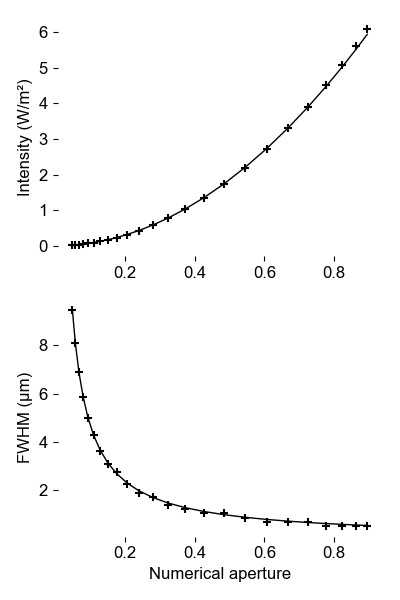
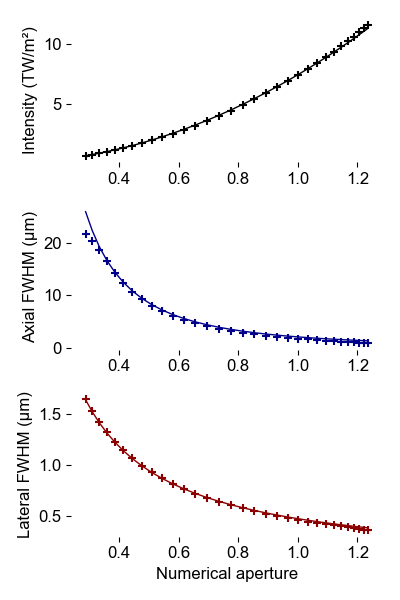
Agreement with axial theory is evaluated

diff --git a/examples/quantitative-intensity.py b/examples/quantitative-intensity.py
@@ -17,27 +17,42 @@ import sys
 import time
 
 try:
-    from foci import util
     from foci import debye_wolf
-    from foci import UM, NM, MM
+    from foci import UM, NM, MM, M
 except ModuleNotFoundError:  # If not installed, assume user is running from \examples
     sys.path.append(os.path.abspath(os.path.join(os.path.dirname(__file__), "..")))
-    from foci import util
     from foci import debye_wolf
-    from foci import UM, NM, MM
+    from foci import UM, NM, MM, M
     
+
+# def get_fwhm(x):
+#     x = np.abs(x)
+#     if x[0] != np.max(x):
+#         raise ValueError('x must be the right-hand side of a PSF beginning at its maximum!')
+#     normalized = (x - np.min(x)) / (np.max(x) - np.min(x))
+#     i = np.argmin(np.abs(normalized - 0.5))
+#     return 2 * i
+
 
 def get_fwhm(x):
     x = np.abs(x)
     if x[0] != np.max(x):
         raise ValueError('x must be the right-hand side of a PSF beginning at its maximum!')
-    normalized = (x - np.min(x)) / (np.max(x) - np.min(x))
-    i = np.argmin(np.abs(normalized - 0.5))
-    return 2 * i
+    n = (x - x.min()) / (x.max() - x.min())
+    idx = np.flatnonzero(n < 0.5)
+    if len(idx) == 0:
+        return np.nan
+    i = idx[0]
+    f = (0.5 - n[i-1]) / (n[i] - n[i-1]) if n[i] != n[i-1] else 0
+    return 2 * (i - 1 + f)
 
 
-def theoretical_fwhm(NA, wavelength):
+def theoretical_lateral_fwhm(NA, wavelength):
     return (0.515 * wavelength) / NA
+
+
+def theoretical_axial_fwhm(NA, wavelength):
+    return (2.34 * wavelength) / NA**2
     
     
 def theoretical_peak(NA, wavelength):
@@ -51,11 +66,16 @@ PUPIL_DIAMETER = 8 * MM
 WAVELENGTH = 920 * NM
 
 # Field parameters
-FIELD_WIDTH = 22 * UM
-FIELD_INDEX = 1.0  # Water
+FIELD_WIDTH = 8 * UM
+FIELD_DEPTH = 36 * UM
+FIELD_INDEX = 1.33  # Water
 
 # Simulation resolution
-N = 256
+N = 128
+Z = 128
+
+dx = FIELD_WIDTH / N
+dz = FIELD_DEPTH / Z
 
 # %% Create linearly polarized pupil
 
@@ -64,18 +84,25 @@ pupil.normalize_power()
 
 # %% Propagate for various objectives
 
-objective_focal_lengths = np.logspace(np.log10(2 * MM), np.log10(80 * MM), num=24)
+objective_focal_lengths = np.logspace(np.log10(1.6 * MM), np.log10(18 * MM), num=32)
+
 nas = []
+
 intensity_distributions = []
-theoretical_peaks = []
+
 simulated_peaks = []
-simulation_power = []
-simulated_fwhms = []
-theoretical_fwhms = []
+theoretical_peaks = []
+
+simulated_lateral_fwhms = []
+simulated_axial_fwhms = []
+theoretical_lateral_fwhms = []
+theoretical_axial_fwhms = []
+
+simulated_powers = []
 
 for obj_f in objective_focal_lengths:
     print('Preparing forward model of objective with focal length {:.2f} mm...'.format(obj_f / MM))
-    obj = debye_wolf.Objective(WAVELENGTH, FIELD_INDEX, obj_f, PUPIL_DIAMETER, N, FIELD_WIDTH)
+    obj = debye_wolf.Objective(WAVELENGTH, FIELD_INDEX, obj_f, PUPIL_DIAMETER, N, FIELD_WIDTH, z=Z, field_depth=FIELD_DEPTH)
     print('...simulated objective with NA={:.3f}'.format(obj._na))
     nas.append(obj._na)
     theoretical_peaks.append(theoretical_peak(obj._na, WAVELENGTH))
@@ -83,13 +110,15 @@ for obj_f in objective_focal_lengths:
     field = obj.focus(pupil)
     elapsed = time.time() - start
     print('Propagated to focus, {:.3f} s elapsed.'.format(elapsed))
+    # field.save_vectorial('vectorial_gaussian_NA' + str(obj._na)[0:5])
     I = field.intensity()
-    simulated_fwhms.append(get_fwhm(I[N // 2:, N // 2]) * (FIELD_WIDTH / N))
-    theoretical_fwhms.append(theoretical_fwhm(obj._na, WAVELENGTH))
-    intensity_distributions.append(I)
-    
+    simulated_lateral_fwhms.append(get_fwhm(I[N // 2:, N // 2, Z // 2]) * dx)
+    simulated_axial_fwhms.append(get_fwhm(I[N // 2, N // 2, Z // 2:]) * dz)
+    theoretical_lateral_fwhms.append(theoretical_lateral_fwhm(obj._na, WAVELENGTH))
+    theoretical_axial_fwhms.append(theoretical_axial_fwhm(obj._na, WAVELENGTH))
     simulated_peaks.append(I.max())
-    simulation_power.append(np.sum(I) * (PUPIL_DIAMETER / N)**2)
+    intensity_distributions.append(I)
+    simulated_powers.append(field.power())
 
 # %% Display
 
@@ -99,19 +128,21 @@ plt.close('all')
 
 plt.figure('Theory vs. simulation', figsize=(4, 6))
 
-plt.subplot(2, 1, 1)
-plt.plot(nas, theoretical_peaks, '-k', linewidth=1)
-plt.scatter(nas, simulated_peaks, color='black', marker='+')
-plt.ylabel('Intensity (W/m²)')
+plt.subplot(3, 1, 1)
+plt.plot(nas, np.array(theoretical_peaks) / 1e12, '-k', linewidth=1)
+plt.scatter(nas, np.array(simulated_peaks) / 1e12, color='black', marker='+')
+plt.ylabel('Intensity (TW/m²)')
 ax = plt.gca()
 ax.spines['top'].set_visible(False)
 ax.spines['right'].set_visible(False)
 ax.spines['left'].set_visible(False)
 ax.spines['bottom'].set_visible(False)
 
-plt.subplot(2, 1, 2)
-plt.plot(nas, theoretical_fwhms, '-k', linewidth=1)
-plt.scatter(nas, simulated_fwhms, color='black', marker='+')
+plt.subplot(3, 1, 2)
+plt.plot(nas, np.array(theoretical_axial_fwhms) / UM, color='darkblue', linewidth=1)
+plt.scatter(nas, np.array(simulated_axial_fwhms) / UM, color='darkblue', marker='+', label='Axial')
+plt.plot(nas, np.array(theoretical_lateral_fwhms) / UM, color='darkred', linewidth=1)
+plt.scatter(nas, np.array(simulated_lateral_fwhms) / UM, color='darkred', marker='+', label='Lateral')
 plt.ylabel('FWHM (μm)')
 plt.xlabel('Numerical aperture')
 ax = plt.gca()
@@ -122,3 +153,14 @@ ax.spines['bottom'].set_visible(False)
 
 plt.tight_layout()
 plt.savefig('quantitative-intensity-test')
+
+plt.figure('Integrated power vs NA')
+plt.plot(nas, np.ones(len(nas)), '-k', linewidth=1)
+plt.scatter(nas, simulated_powers, color='black', marker='+')
+plt.ylabel('Power (W)')
+plt.xlabel('Numerical aperture')
+ax = plt.gca()
+ax.spines['top'].set_visible(False)
+ax.spines['right'].set_visible(False)
+ax.spines['left'].set_visible(False)
+ax.spines['bottom'].set_visible(False)

diff --git a/foci/debye_wolf.py b/foci/debye_wolf.py
@@ -26,6 +26,7 @@ import tempfile
 import uuid
 import copy
 from foci import cztw
+from foci.util import *
 import numpy as np
 from numpy import pi as PI
 from multiprocessing import shared_memory as sm
@@ -35,11 +36,6 @@ import prysm.polynomials
 
 
 mp = mp.get_context('spawn')
-
-
-MM = 1000.0
-UM = 1.0
-NM = 1.0 / 1000.0
 
 
 type_bytes = {
@@ -59,7 +55,7 @@ class VectorialPupil(object):
             raise ValueError('The pupil must be square!')
         self._shape = (pupil_x.shape[0], pupil_x.shape[0], 2)
         if diameter is None:
-            self._clear_aperture = float(pupil_x.shape[0])
+            self._clear_aperture = float(pupil_x.shape[0]) * MM  # Assume millimeters if no unit is provided
         else:
             self._clear_aperture = diameter
         self._r = np.linspace(-self._clear_aperture / 2, self._clear_aperture / 2, self._shape[0])
@@ -152,12 +148,14 @@ class VectorialPupil(object):
         P_Y = np.sum(np.abs(self.y)**2)
         return (P_X + P_Y) * self._dr**2
     
+    def intensity(self) -> float:
+        return np.abs(self.x)**2 + np.abs(self.y)**2
+    
     def normalize_power(self, P_norm=1.0):
         P = self.power()
         s = np.sqrt(P_norm / P)
         self._pupil[:, :, 0] *= s
         self._pupil[:, :, 1] *= s
-        print('Power normalized to', self.power())
     
     def display(self, mask_threshold: float=1E-9, display_phase=True, display_polarization=True, polarization_downsample: int=None, cmap_amp='Reds', cmap_phase='Blues', display_colorbar=False):
         
@@ -226,6 +224,11 @@ class VectorialFocalField(object):
         self._wavelength = wavelength
         self._r = np.linspace(-field_diameter / 2, field_diameter / 2, shape[0])
         self._z = np.linspace(-field_depth / 2, field_depth / 2, shape[-1])
+        self._dr = np.abs(self._r[1] - self._r[0])
+        if len(self._z) > 1:
+            self._dz = np.abs(self._z[1] - self._z[0])
+        else: 
+            self._dz = 1
         self._filename = None  # for memmaped fields
         now_str = datetime.now().strftime("%Y%m%d%H%M%S")
         param_str = str(int(wavelength / NM)) + '_' + '_'.join(str(i) for i in shape) + '_' + precision
@@ -263,6 +266,12 @@ z
 
         """
         return np.abs(self._E[:, :, :, 0])**2 + np.abs(self._E[:, :, :, 1])**2 + np.abs(self._E[:, :, :, 2])**2
+    
+    def power(self) -> float:
+        P_X = np.sum(np.abs(self.E_X())**2)
+        P_Y = np.sum(np.abs(self.E_Y())**2)
+        P_Z = np.sum(np.abs(self.E_Z())**2)
+        return (P_X + P_Y + P_Z) * self._dr**2 * self._dz
     
     def E_X(self) -> np.ndarray:
         return self._E[:, :, :, 0]

diff --git a/foci/util.py b/foci/util.py
@@ -11,9 +11,11 @@ import numpy as np
 import pyfftw as fftw
 
 
-MM = 1000.0
-UM = 1.0
-NM = 1.0 / 1000.0
+# Global package units
+M = 1.
+MM = M / 1000.
+UM = MM / 1000.
+NM = UM / 1000.
 
 
 try:

diff --git a/foci/rs.py b/foci/rs.py
@@ -19,10 +19,6 @@ from foci.util import *
 
 PI = np.pi
 
-MM = 1000.0
-UM = 1.0
-NM = 1.0 / 1000.0
-
 
 PLANNER_EFFORT = 'FFTW_PATIENT'
 
